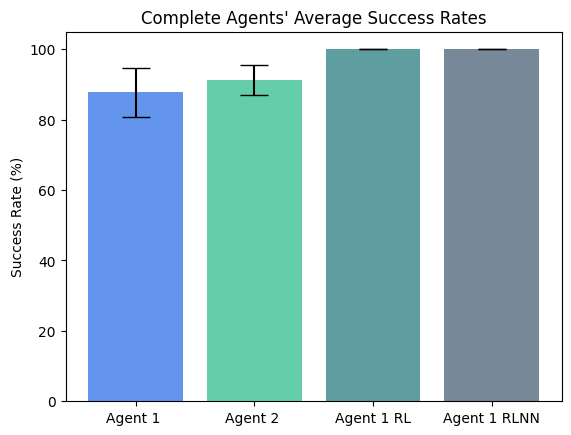
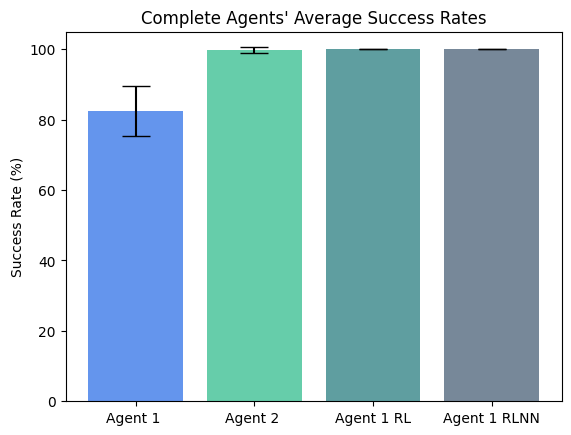
final statistics

Changed region(s): [[0.3573, 0.0897, 0.5359, 0.2391], [0.1489, 0.1494, 0.3275, 0.3287]]

diff --git a/main.py b/main.py
@@ -5,7 +5,6 @@ import game.utils as utils
 import simulation_statistics
 import visualize_statistics
 from game.graph import Graph
-from game.game import Game
 
 
 def get_overall_simulation_statistics(wins, losses, timeouts, success_rates, found_prey=None, found_pred=None):
@@ -46,6 +45,7 @@ def save_simulation_statistics(setting, agent, agent_data):
 
     with open(filepath, "w") as fp:
         json.dump(data, fp)
+
 
 def labreport_simulation_statistics_agent1():
     """
@@ -232,6 +232,7 @@ def labreport_simulation_statistics_agent3_rl():
     print(
         f"Agent3RL: Overall Success Rate: {round(sum(success_rates) / len(success_rates),2)}%")
 
+
 def labreport_simulation_statistics_agent3_rl_nn():
     """
     runs 100 simulations 30 times and returns the average 
@@ -272,13 +273,15 @@ def calculate_utility_values(filename="GAME_GRAPH.json"):
 
 if __name__ == "__main__":
     # calculate_utility_values()
-    # visualize_statistics.visualize("data/", "simulation_statistics_complete.json")
-    labreport_simulation_statistics_agent1()
-    labreport_simulation_statistics_agent2()
-    labreport_simulation_statistics_agent3()
-    labreport_simulation_statistics_agent4()
-    labreport_simulation_statistics_agent1_rl()
-    labreport_simulation_statistics_agent1_rl_nn()
-    labreport_simulation_statistics_agent3_rl()
-    labreport_simulation_statistics_agent3_rl_nn()
 
+    # labreport_simulation_statistics_agent1()
+    # labreport_simulation_statistics_agent2()
+    # labreport_simulation_statistics_agent1_rl()
+    # labreport_simulation_statistics_agent1_rl_nn()
+    visualize_statistics.visualize("data/", "simulation_statistics_complete.json")
+
+    # labreport_simulation_statistics_agent3()
+    # labreport_simulation_statistics_agent4()
+    # labreport_simulation_statistics_agent3_rl()
+    # labreport_simulation_statistics_agent3_rl_nn()
+    visualize_statistics.visualize("data/", "simulation_statistics_partial-prey.json")

diff --git a/visualize_statistics.py b/visualize_statistics.py
@@ -23,7 +23,8 @@ def visualize(dirname, filename):
     stds = []
     for agent, value in data.items():
         agent_split = re.split(r'(\d+)', agent)
-        agents.append(f'{agent_split[0].capitalize()} {agent_split[1]} {agent_split[2].upper()}')
+        agents.append(
+            f'{agent_split[0].capitalize()} {agent_split[1]} {agent_split[2].upper()}')
 
         success_rates = value['success-rates']
         np_success_rates = np.array(success_rates)
@@ -32,7 +33,8 @@ def visualize(dirname, filename):
 
     # create the bar graph with error bars
     x_pos = np.arange(len(agents))
-    colors = ["cornflowerblue", "mediumaquamarine", "cadetblue", "lightslategrey"]
+    colors = ["cornflowerblue", "mediumaquamarine",
+              "cadetblue", "lightslategrey"]
 
     _, axes = plt.subplots()
     axes.bar(x_pos, means, color=colors, yerr=stds,

diff --git a/game/game.py b/game/game.py
@@ -2,10 +2,10 @@ import random
 import matplotlib.pyplot as plt
 import networkx as nx
 import game.utils as utils
-from game.agents.agent1 import Agent1
-from game.agents.agent2 import Agent2
-from game.agents.agent3 import Agent3
-from game.agents.agent4 import Agent4
+from .agents.agent1 import Agent1
+from .agents.agent2 import Agent2
+from .agents.agent3 import Agent3
+from .agents.agent4 import Agent4
 from .agents.agent1rl import Agent1RL
 from .agents.agent1rlnn import Agent1RLNN
 from .agents.agent3rl import Agent3RL
@@ -400,7 +400,7 @@ class Game:
             status = -2
 
         return status
-    
+
     def run_agent_3_rlnn(self):
         self.predator = Predator(self.predator_location)
         self.agent = Agent3RLNN(self.graph, self.agent_starting_location)

diff --git a/simulation_statistics.py b/simulation_statistics.py
@@ -1,5 +1,6 @@
 from game.game import Game
 
+
 def agent1(num_simulations, nodes=50):
     """
     run simulation n times and get statistics on success
@@ -174,6 +175,7 @@ def agent3rl(num_simulations, nodes=50):
     print(
         f"Agent3RL: Wins: {wins}\tLosses: {losses}\tTimeouts: {timeouts}\tSuccess Rate: {round(success*100,2)}%")
     return wins, losses, timeouts, round(success*100, 2)
+
 
 def agent3rlnn(num_simulations, nodes=50):
     """
